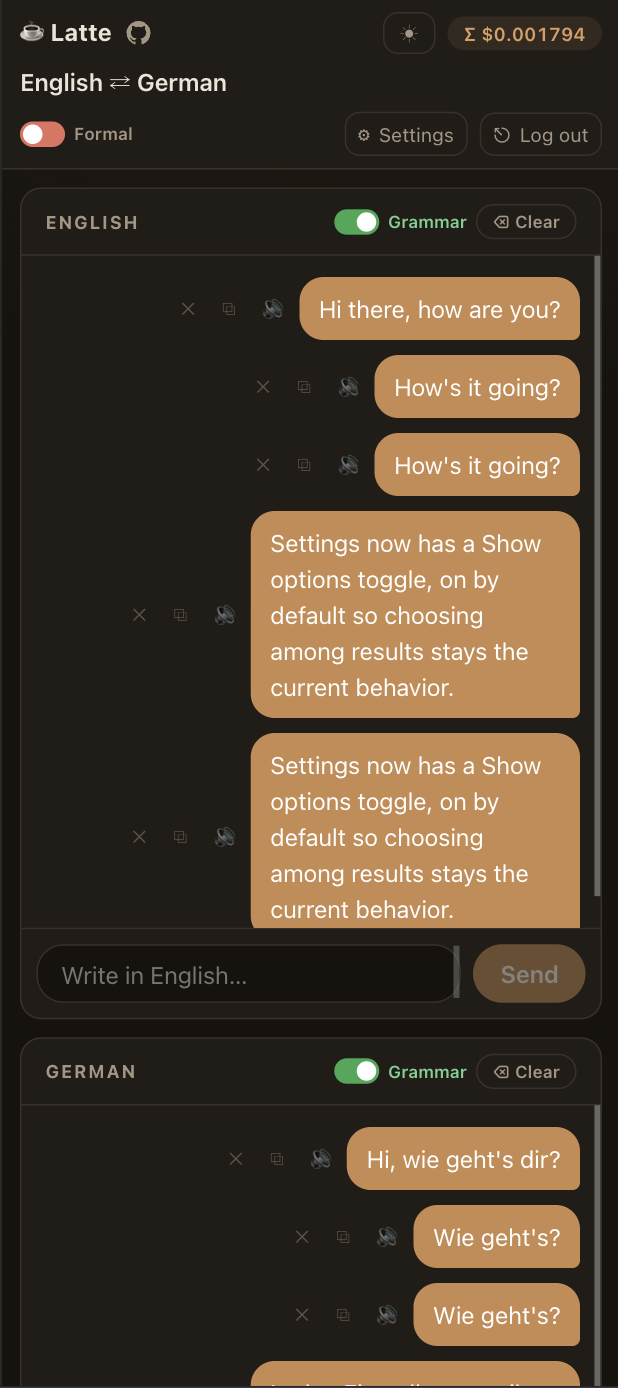
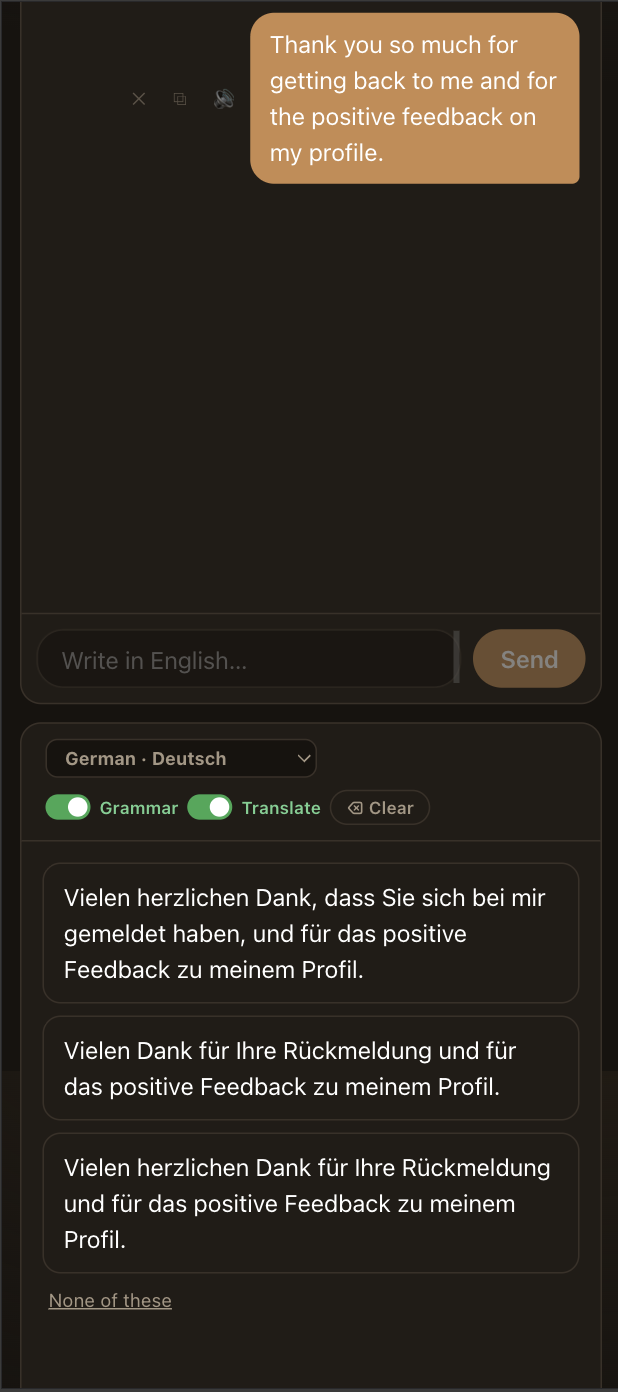
feat: toggle translate and language (#15)
* feat: toggle translate and language

* feat: update readme

diff --git a/src/components/ChatScreen.tsx b/src/components/ChatScreen.tsx
@@ -98,10 +98,26 @@ export default function ChatScreen({
     }
   }
 
+  function handleLanguageChange(side: Side, code: string) {
+    const other = side === "left" ? settings.target : settings.source;
+    if (code === other) return;
+    onSettingsChange({
+      ...settings,
+      ...(side === "left" ? { source: code } : { target: code }),
+    });
+  }
+
   function handleToggleGrammarCheck(side: Side, enabled: boolean) {
     onSettingsChange({
       ...settings,
       grammarCheck: { ...settings.grammarCheck, [side]: enabled },
+    });
+  }
+
+  function handleToggleTranslate(side: Side, enabled: boolean) {
+    onSettingsChange({
+      ...settings,
+      translate: { ...settings.translate, [side]: enabled },
     });
   }
 
@@ -348,6 +364,7 @@ export default function ChatScreen({
   async function postForTranslation(side: Side, requestId: string, text: string) {
     clearPendingIfCurrent(side, requestId);
     appendMessage(side, text);
+    if (!settings.translate[side]) return;
     await translate(side, text);
   }
 
@@ -540,13 +557,17 @@ export default function ChatScreen({
       <main className={styles.panes}>
         <ChatPane
           side="left"
-          language={languageName(settings.source)}
+          languageCode={settings.source}
+          otherLanguageCode={settings.target}
           messages={messages.filter((message) => message.side === "left")}
           pending={pending.left}
           inputBlocked={inputBlocked}
           grammarCheck={settings.grammarCheck.left}
+          translate={settings.translate.left}
           onSend={(text) => handleSend("left", text)}
+          onLanguageChange={(code) => handleLanguageChange("left", code)}
           onToggleGrammarCheck={(enabled) => handleToggleGrammarCheck("left", enabled)}
+          onToggleTranslate={(enabled) => handleToggleTranslate("left", enabled)}
           onPick={(index) => handlePick("left", index)}
           onPickCorrection={(index) => handlePickCorrection("left", index)}
           onSendOriginal={() => handleSendOriginal("left")}
@@ -558,13 +579,17 @@ export default function ChatScreen({
         />
         <ChatPane
           side="right"
-          language={languageName(settings.target)}
+          languageCode={settings.target}
+          otherLanguageCode={settings.source}
           messages={messages.filter((message) => message.side === "right")}
           pending={pending.right}
           inputBlocked={inputBlocked}
           grammarCheck={settings.grammarCheck.right}
+          translate={settings.translate.right}
           onSend={(text) => handleSend("right", text)}
+          onLanguageChange={(code) => handleLanguageChange("right", code)}
           onToggleGrammarCheck={(enabled) => handleToggleGrammarCheck("right", enabled)}
+          onToggleTranslate={(enabled) => handleToggleTranslate("right", enabled)}
           onPick={(index) => handlePick("right", index)}
           onPickCorrection={(index) => handlePickCorrection("right", index)}
           onSendOriginal={() => handleSendOriginal("right")}

diff --git a/src/components/ChatPane.tsx b/src/components/ChatPane.tsx
@@ -1,4 +1,5 @@
 import { useEffect, useRef, useState, type FormEvent, type KeyboardEvent } from "react";
+import { LANGUAGES, languageName } from "../constants";
 import { normalizeMultiline, uniqueOptionIndexes } from "../lib/text";
 import type { SpeechControls } from "../hooks/useSpeechPlayback";
 import type { Message, Pending, Side } from "../types";
@@ -15,13 +16,17 @@ function optionIndexes(pending: Pending): number[] {
 
 interface ChatPaneProps {
   side: Side;
-  language: string;
+  languageCode: string;
+  otherLanguageCode: string;
   messages: Message[];
   pending?: Pending;
   inputBlocked: boolean;
   grammarCheck: boolean;
+  translate: boolean;
   onSend(text: string): void;
+  onLanguageChange(code: string): void;
   onToggleGrammarCheck(enabled: boolean): void;
+  onToggleTranslate(enabled: boolean): void;
   onPick(index: number): void;
   onPickCorrection(index: number): void;
   onSendOriginal(): void;
@@ -78,13 +83,17 @@ function SpeechButtons({ message, speech }: { message: Message; speech: SpeechCo
 
 export default function ChatPane({
   side,
-  language,
+  languageCode,
+  otherLanguageCode,
   messages,
   pending,
   inputBlocked,
   grammarCheck,
+  translate,
   onSend,
+  onLanguageChange,
   onToggleGrammarCheck,
+  onToggleTranslate,
   onPick,
   onPickCorrection,
   onSendOriginal,
@@ -99,6 +108,7 @@ export default function ChatPane({
   const listRef = useRef<HTMLDivElement | null>(null);
   const inputRef = useRef<HTMLTextAreaElement | null>(null);
   const copyTimer = useRef<number | null>(null);
+  const language = languageName(languageCode);
   const isBusy = pending?.status === "checking" || pending?.status === "loading";
   const networkBusy =
     pending?.status === "checking" || pending?.status === "loading" || pending?.status === "streaming";
@@ -154,11 +164,23 @@ export default function ChatPane({
     <section className={styles.pane} aria-label={`${language} conversation`}>
       <header className={styles.header}>
         <div className={styles.titleGroup}>
-          <h2>{language}</h2>
+          <select
+            className={styles.languageSelect}
+            value={languageCode}
+            onChange={(event) => onLanguageChange(event.target.value)}
+            aria-label={`${language} language`}
+          >
+            {LANGUAGES.map((option) => (
+              <option key={option.code} value={option.code} disabled={option.code === otherLanguageCode}>
+                {option.name} · {option.native}
+              </option>
+            ))}
+          </select>
           {networkBusy && <span className={styles.spinner} role="status" aria-label="Network activity" />}
         </div>
         <div className={styles.headerActions}>
           <ToggleSwitch label="Grammar" checked={grammarCheck} onChange={onToggleGrammarCheck} />
+          <ToggleSwitch label="Translate" checked={translate} onChange={onToggleTranslate} />
           <button
             type="button"
             className={styles.clearButton}

diff --git a/src/App.tsx b/src/App.tsx
@@ -9,7 +9,7 @@ import { refreshKeyUsage, setKeyUsageListener } from "./lib/openrouter";
 import { clearSpeechFiles, dropSpeechFile, dropSpeechFiles } from "./lib/speechFiles";
 import { clearAppStorage } from "./lib/storage";
 import { applyTheme, initialTheme, storeTheme } from "./lib/theme";
-import type { ChatStore, GrammarCheckSetting, Message, Screen, Settings, Side, Theme } from "./types";
+import type { ChatStore, GrammarCheckSetting, Message, Screen, Settings, Side, Theme, TranslateSetting } from "./types";
 
 export default function App() {
   const [apiKey, setApiKey] = usePersistentState(STORAGE_KEYS.apiKey, "");
@@ -146,7 +146,8 @@ function normalizeSettings(value: unknown): Settings | null {
     source: candidate.source,
     target: candidate.target,
     formality: candidate.formality === "formal" ? "formal" : "informal",
-    grammarCheck: normalizeGrammarCheck(candidate.grammarCheck),
+    grammarCheck: normalizeSideFlags(candidate.grammarCheck),
+    translate: normalizeSideFlags(candidate.translate),
     showOptions: candidate.showOptions !== false,
     translationModel: normalizeModel(candidate.translationModel, DEFAULT_TRANSLATION_MODEL),
     grammarModel: normalizeModel(
@@ -158,7 +159,7 @@ function normalizeSettings(value: unknown): Settings | null {
   };
 }
 
-function normalizeGrammarCheck(value: unknown): GrammarCheckSetting {
+function normalizeSideFlags(value: unknown): GrammarCheckSetting & TranslateSetting {
   if (typeof value !== "object" || value === null) return { left: true, right: true };
   const candidate = value as Record<string, unknown>;
   return {

diff --git a/src/components/ChatPane.module.css b/src/components/ChatPane.module.css
@@ -12,6 +12,7 @@
   display: flex;
   align-items: center;
   justify-content: space-between;
+  flex-wrap: wrap;
   gap: 8px;
   padding: 10px 16px;
   border-bottom: 1px solid var(--border);
@@ -67,12 +68,21 @@
   cursor: default;
 }
 
-.header h2 {
+.languageSelect {
+  min-width: 0;
+  max-width: 100%;
+  border: 1px solid var(--border);
+  border-radius: 8px;
+  padding: 4px 8px;
+  background: var(--bg);
+  color: var(--muted);
   font-size: 12px;
   font-weight: 700;
-  letter-spacing: 0.1em;
-  text-transform: uppercase;
-  color: var(--muted);
+}
+
+.languageSelect:focus {
+  border-color: var(--accent);
+  outline: none;
 }
 
 .messages {

diff --git a/src/components/SetupScreen.tsx b/src/components/SetupScreen.tsx
@@ -272,6 +272,7 @@ export default function SetupScreen({ initial, canCancel, onSave, onCancel }: Se
                 target,
                 formality,
                 grammarCheck: initial?.grammarCheck ?? { left: true, right: true },
+                translate: initial?.translate ?? { left: true, right: true },
                 showOptions,
                 translationModel: trimmedTranslationModel,
                 grammarModel: trimmedGrammarModel,

diff --git a/src/types.ts b/src/types.ts
@@ -15,11 +15,17 @@ export interface GrammarCheckSetting {
   right: boolean;
 }
 
+export interface TranslateSetting {
+  left: boolean;
+  right: boolean;
+}
+
 export interface Settings {
   source: string;
   target: string;
   formality: Formality;
   grammarCheck: GrammarCheckSetting;
+  translate: TranslateSetting;
   showOptions: boolean;
   translationModel: string;
   grammarModel: string;

diff --git a/README.md b/README.md
@@ -18,10 +18,11 @@ A two-pane chat translator for language pairs, powered by OpenRouter. Type in ei
 ## Features
 
 - **One-click sign-in**: "Sign in with OpenRouter" creates and stores an API key automatically via OpenRouter's PKCE flow; pasting an existing key still works
-- **Any language pair**: pick a source and target language, swap them anytime, and keep a separate conversation per pair
+- **Any language pair**: pick a source and target language on the setup screen, or change either one from the dropdown in that pane’s header. The other pane’s language is disabled in the list. Swap the pair on the setup screen. Each pair keeps its own conversation
 - **Type in either pane**: write in your language or theirs; on phones the panes stack vertically
 - **Three options, or one**: with "Show options" on (the default), each message arrives as three translation alternatives; pick the best fit or tap "None of these" for three fresh attempts. Turn it off and a single proofreading or translation result is streamed and used automatically. If every alternative collapses to the same text, that text is used automatically too
 - **Optional grammar check**: a per-pane toggle that reviews your draft with a checker model; if it finds mistakes you get up to three corrected versions, and you can send as is, dismiss, or edit
+- **Optional translation**: a per-pane Translate toggle next to Grammar, on by default. Turn it off and a sent message stays in that pane, with the grammar check when that toggle is on, and no translation is requested. A translation already on screen keeps its Retry button
 - **Formal or informal**: choose the tonality your translations should carry, on the setup screen or with the Formal switch in the chat header
 - **Your models**: translation can use any OpenRouter text model, the grammar check is limited to typed decision models that answer with probabilities instead of text, and speech uses a multilingual OpenRouter speech model plus one of its voices (defaults: `z-ai/glm-5.3-flash` for translation, `~typesafe/jev-latest` for checks, `x-ai/grok-voice-tts-1.0` with the `eve` voice)
 - **Listen to any bubble**: hover a bubble and tap the speaker to play it; pause, resume, or replay while it is active. Audio is generated on demand and cached for the session
